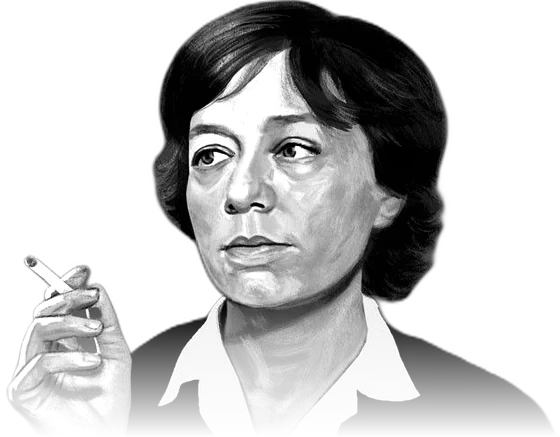
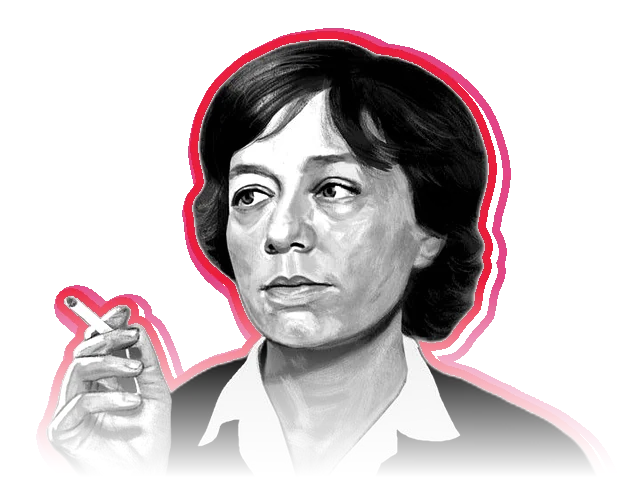
Ensaladas: cita escrita a mano alrededor del poeta, contorno rojo/rosa, poetas más chicos, ensalada y nombre grandes sin ficha
Claude-Session: https://claude.ai/code/session_014MYiZw9DCFwXijDfbvyeKp

diff --git a/index.html b/index.html
@@ -132,10 +132,9 @@
       <div class="ensaladas__escena" data-escena tabindex="0" aria-roledescription="carrusel" aria-label="Ensaladas: desliza para cambiar">
         <div class="es__giro" data-giro>
         <article class="es" data-vibra="pizarnik" aria-roledescription="ensalada" aria-label="Ensalada Pizarnik">
-          <div class="es__poeta" style="--ar: 560 / 437"><img src="assets/img/poetas/pizarnik.webp" width="560" height="437" alt="" loading="lazy"><svg class="es__grafiti" viewBox="0 0 560 437" aria-hidden="true"><g class="es__trazos"><path class="p" d="M222 26 L236 -38 L268 6 L300 -52 L332 6 L364 -38 L378 26 Z" pathLength="1"/><path class="r" d="M150 170 C 80 150, 30 190, 14 262 M14 262 l-8 -34 M14 262 l26 -22" pathLength="1"/><path class="p" d="M34 250 C 4 222, 58 204, 30 176 S 2 128, 42 96" pathLength="1"/><path class="r" d="M490 52 L495.4 64.6 L508 66.4 L498.1 74.5 L500.8 88 L490 79.9 L479.2 88 L481.9 74.5 L472 66.4 L484.6 64.6 Z" pathLength="1"/><path class="p" d="M112 28 L115.6 36.4 L124 37.6 L117.4 43.0 L119.2 52 L112 46.6 L104.8 52 L106.6 43.0 L100 37.6 L108.4 36.4 Z" pathLength="1"/><path class="r" d="M472 230 C446.4 214, 456 194.8, 472 207.6 C488 194.8, 497.6 214, 472 230 Z" pathLength="1"/></g><text class="p" x="316" y="404" transform="rotate(-12 316 404)">¡NOCHE!</text></svg></div>
+          <div class="es__poeta" style="--ar: 640 / 477"><img src="assets/img/poetas/pizarnik.webp" width="640" height="477" alt="" loading="lazy"><svg class="es__grafiti" viewBox="-40 -40 640 477" aria-hidden="true"><g class="es__trazos"><path class="r" d="M150 170 C 80 150, 30 190, 14 262 M14 262 l-8 -34 M14 262 l26 -22" pathLength="1"/><path class="r" d="M490 52 L495.4 64.6 L508 66.4 L498.1 74.5 L500.8 88 L490 79.9 L479.2 88 L481.9 74.5 L472 66.4 L484.6 64.6 Z" pathLength="1"/><path class="p" d="M112 28 L115.6 36.4 L124 37.6 L117.4 43.0 L119.2 52 L112 46.6 L104.8 52 L106.6 43.0 L100 37.6 L108.4 36.4 Z" pathLength="1"/><path class="r" d="M472 230 C446.4 214, 456 194.8, 472 207.6 C488 194.8, 497.6 214, 472 230 Z" pathLength="1"/></g><path id="arco-pizarnik" d="M90 330 C 40 -170, 560 -170, 510 330" fill="none"/><text class="es__escrito"><textPath href="#arco-pizarnik" startOffset="50%" text-anchor="middle">He dado el salto de mí al alba.</textPath></text></svg></div>
           <p class="es__nombre"><span>Alejandra</span> Pizarnik</p>
           <img class="es__plato" src="assets/img/ensaladas/pizarnik.webp" width="720" height="633" alt="Ensalada Pizarnik" loading="lazy">
-          <blockquote class="es__chip es__cita"><p>«He dado el salto de mí al alba.»</p><footer><cite>Árbol de Diana</cite></footer></blockquote>
           <p class="es__chip es__vibra">fruta oscura · deseo · silencio · noche</p>
           <a class="es__chip es__pedir" href="https://laymonpizzeria.getjusto.com/pedir">Pide la Pizarnik <span aria-hidden="true">→</span></a>
           <span class="es__ings" aria-hidden="true">
@@ -155,10 +154,9 @@
           </span>
         </article>
         <article class="es" data-vibra="blake" aria-roledescription="ensalada" aria-label="Ensalada Blake">
-          <div class="es__poeta" style="--ar: 560 / 453"><img src="assets/img/poetas/blake.webp" width="560" height="453" alt="" loading="lazy"><svg class="es__grafiti" viewBox="0 0 560 453" aria-hidden="true"><g class="es__trazos"><path class="p" d="M126 24 A132 28 -5 1 0 390 24 A132 28 -5 1 0 126 24" pathLength="1"/><path class="r" d="M168 210 C 110 220, 60 260, 34 318 M34 318 l-4 -34 M34 318 l28 -18" pathLength="1"/><path class="r" d="M110 -30 l-26 -18 M150 -58 l-10 -26 M370 -58 l10 -26 M410 -30 l26 -18" pathLength="1"/><path class="p" d="M440 84 L414 146 L444 146 L418 212" pathLength="1"/><path class="p" d="M96 136 L100.2 145.8 L110 147.2 L102.3 153.5 L104.4 164 L96 157.7 L87.6 164 L89.7 153.5 L82 147.2 L91.8 145.8 Z" pathLength="1"/><path class="r" d="M470 314 C447.6 300, 456 283.2, 470 294.4 C484 283.2, 492.4 300, 470 314 Z" pathLength="1"/></g><text class="r" x="300" y="376" transform="rotate(-10 300 376)">¡SANTO!</text></svg></div>
+          <div class="es__poeta" style="--ar: 640 / 493"><img src="assets/img/poetas/blake.webp" width="640" height="493" alt="" loading="lazy"><svg class="es__grafiti" viewBox="-40 -40 640 493" aria-hidden="true"><g class="es__trazos"><path class="r" d="M168 210 C 110 220, 60 260, 34 318 M34 318 l-4 -34 M34 318 l28 -18" pathLength="1"/><path class="p" d="M96 136 L100.2 145.8 L110 147.2 L102.3 153.5 L104.4 164 L96 157.7 L87.6 164 L89.7 153.5 L82 147.2 L91.8 145.8 Z" pathLength="1"/><path class="r" d="M470 314 C447.6 300, 456 283.2, 470 294.4 C484 283.2, 492.4 300, 470 314 Z" pathLength="1"/></g><path id="arco-blake" d="M60 300 C 20 -170, 500 -170, 460 300" fill="none"/><text class="es__escrito" lang="en"><textPath href="#arco-blake" startOffset="50%" text-anchor="middle">Every thing that lives is holy.</textPath></text></svg></div>
           <p class="es__nombre"><span>William</span> Blake</p>
           <img class="es__plato" src="assets/img/ensaladas/blake.webp" width="720" height="580" alt="Ensalada Blake" loading="lazy">
-          <blockquote class="es__chip es__cita"><p lang="en">«Every thing that lives is holy.»</p><footer><cite>El matrimonio del cielo y el infierno</cite></footer></blockquote>
           <p class="es__chip es__vibra">naturaleza viva · energía · abundancia</p>
           <a class="es__chip es__pedir" href="https://laymonpizzeria.getjusto.com/pedir">Pide la Blake <span aria-hidden="true">→</span></a>
           <span class="es__ings" aria-hidden="true">
@@ -178,10 +176,9 @@
           </span>
         </article>
         <article class="es" data-vibra="artaud" aria-roledescription="ensalada" aria-label="Ensalada Artaud">
-          <div class="es__poeta" style="--ar: 560 / 591"><img src="assets/img/poetas/artaud.webp" width="560" height="591" alt="" loading="lazy"><svg class="es__grafiti" viewBox="0 0 560 591" aria-hidden="true"><g class="es__trazos"><path class="p" d="M232 74 C 216 44, 220 8, 246 -14 C 250 16, 262 42, 282 60" pathLength="1"/><path class="p" d="M482 56 C 502 28, 508 -6, 494 -30 C 478 -4, 462 20, 446 40" pathLength="1"/><path class="r" d="M190 300 C 120 300, 60 340, 26 404 M26 404 l-2 -34 M26 404 l30 -16" pathLength="1"/><path class="p" d="M80 140 l40 40 M120 140 l-40 40" pathLength="1"/><path class="r" d="M530 306 L534.2 315.8 L544 317.2 L536.3 323.5 L538.4 334 L530 327.7 L521.6 334 L523.7 323.5 L516 317.2 L525.8 315.8 Z" pathLength="1"/><path class="p" d="M110 264 C87.6 250, 96 233.2, 110 244.4 C124 233.2, 132.4 250, 110 264 Z" pathLength="1"/></g><text class="r" x="250" y="572" transform="rotate(-9 250 572)">¡CRUDA!</text></svg></div>
+          <div class="es__poeta" style="--ar: 640 / 631"><img src="assets/img/poetas/artaud.webp" width="640" height="631" alt="" loading="lazy"><svg class="es__grafiti" viewBox="-40 -40 640 631" aria-hidden="true"><g class="es__trazos"><path class="r" d="M190 300 C 120 300, 60 340, 26 404 M26 404 l-2 -34 M26 404 l30 -16" pathLength="1"/><path class="p" d="M80 140 l40 40 M120 140 l-40 40" pathLength="1"/><path class="r" d="M530 306 L534.2 315.8 L544 317.2 L536.3 323.5 L538.4 334 L530 327.7 L521.6 334 L523.7 323.5 L516 317.2 L525.8 315.8 Z" pathLength="1"/><path class="p" d="M110 264 C87.6 250, 96 233.2, 110 244.4 C124 233.2, 132.4 250, 110 264 Z" pathLength="1"/></g><path id="arco-artaud" d="M120 420 C 60 -230, 640 -230, 580 420" fill="none"/><text class="es__escrito"><textPath href="#arco-artaud" startOffset="50%" text-anchor="middle">Acabar con las obras maestras.</textPath></text></svg></div>
           <p class="es__nombre"><span>Antonin</span> Artaud</p>
           <img class="es__plato" src="assets/img/ensaladas/artaud.webp" width="720" height="587" alt="Ensalada Artaud" loading="lazy">
-          <blockquote class="es__chip es__cita"><p>«Acabar con las obras maestras.»</p><footer><cite>El teatro y su doble</cite></footer></blockquote>
           <p class="es__chip es__vibra">cruda · raíz · cuerpo · verdad sin filtro</p>
           <a class="es__chip es__pedir" href="https://laymonpizzeria.getjusto.com/pedir">Pide la Artaud <span aria-hidden="true">→</span></a>
           <span class="es__ings" aria-hidden="true">

diff --git a/assets/css/main.css b/assets/css/main.css
@@ -443,7 +443,7 @@ a { color: inherit; }
   translate: -50% -50%; transform-style: preserve-3d; visibility: hidden;
 }
 .es[data-pos="0"] { visibility: visible; }
-.es__poeta { position: absolute; left: 64%; bottom: -14%; height: 140%; aspect-ratio: var(--ar); transform: translateZ(20px); transform-style: preserve-3d; }
+.es__poeta { position: absolute; left: 70%; bottom: -6%; height: 104%; aspect-ratio: var(--ar); transform: translateZ(20px); transform-style: preserve-3d; }
 .es__poeta img { display: block; width: 100%; height: 100%; }
 /* Grafiti de plumón en rojo y rosa Laymon encima del retrato (vandalismo de museo); se pinta al llegar */
 .es__grafiti { position: absolute; inset: 0; width: 100%; height: 100%; overflow: visible; filter: url(#aerosol); transform: translateZ(70px); }
@@ -452,36 +452,29 @@ a { color: inherit; }
 .es__trazos > * { stroke-dasharray: 1; }
 .es__trazos .r { stroke: var(--red); }
 .es__trazos .p { stroke: var(--rosa); }
-.es__grafiti text { font: 400 92px/1 var(--font-display); }
-.es__grafiti text.r { fill: var(--red); }
-.es__grafiti text.p { fill: var(--rosa); }
+.es__escrito { fill: var(--rosa); font: 400 54px/1 var(--font-display); }
 .es[data-pos="0"] .es__trazos > * { animation: es-pinta .7s cubic-bezier(.5, 0, .3, 1) .5s backwards; }
 .es[data-pos="0"] .es__trazos > :nth-child(2) { animation-delay: .75s; }
 .es[data-pos="0"] .es__trazos > :nth-child(3) { animation-delay: 1s; }
 .es[data-pos="0"] .es__trazos > :nth-child(n+4) { animation-delay: 1.2s; }
-.es[data-pos="0"] .es__grafiti text { animation: es-aparece .35s steps(3) 1.3s backwards; }
+.es[data-pos="0"] .es__escrito { animation: es-aparece .5s steps(4) 1.3s backwards; }
 @keyframes es-pinta { from { stroke-dashoffset: 1; } }
 @keyframes es-aparece { from { opacity: 0; } }
 .es__plato {
-  position: absolute; left: 42%; top: 48%; width: 82%; height: auto; translate: -50% -50%;
+  position: absolute; left: 42%; top: 54%; width: 100%; height: auto; translate: -50% -50%;
   transform: translateZ(70px); filter: drop-shadow(0 26px 24px rgba(12, 11, 11, .5));
 }
 /* El nombre es una ficha más: calcomanía montada sobre la esquina de la carta */
 .es__nombre {
-  position: absolute; left: -7%; top: -12%; margin: 0; padding: 10px 18px 12px; border-radius: 14px; rotate: -4deg;
-  background: var(--red); color: var(--paper); font: 400 clamp(40px, 4vw, 60px)/.92 var(--font-display); white-space: nowrap;
-  box-shadow: 0 14px 30px rgba(12, 11, 11, .35); transform: translateZ(110px);
+  position: absolute; left: -16%; top: -26%; margin: 0; color: var(--red); white-space: nowrap;
+  font: 400 clamp(96px, 10vw, 156px)/.85 var(--font-display); transform: translateZ(100px); filter: drop-shadow(0 6px 0 var(--paper));
 }
-.es__nombre span { display: block; font-size: .5em; }
+.es__nombre span { display: block; margin-left: .1em; color: var(--ink); font-size: .32em; }
 .es__chip, .es__ing { position: absolute; }
 .es__chip {
   margin: 0; padding: 10px 14px; border-radius: 16px; background: #fff; color: var(--ink);
   font-size: 15px; line-height: 1.35; box-shadow: 0 12px 28px rgba(12, 11, 11, .25); transform: translateZ(150px);
 }
-.es__cita { right: 82%; top: 66%; width: clamp(190px, 16vw, 250px); }
-.es__cita p { margin: 0; font-size: 18px; }
-.es__cita footer { margin-top: 6px; font-size: 12px; color: var(--label); }
-.es__cita cite { font-style: normal; }
 .es__vibra { right: 88%; top: 26%; width: clamp(170px, 14vw, 210px); transform: translateZ(150px); }
 .es__vibra::before { content: ""; display: inline-block; width: 9px; height: 9px; margin-right: 7px; border-radius: 50%; background: var(--red); }
 .es__pedir { left: 46%; top: 94%; white-space: nowrap; background: var(--red); color: #fff; text-decoration: none; font-size: 18px; border-radius: 999px; padding: 13px 24px; transform: translateZ(160px); }
@@ -518,21 +511,17 @@ a { color: inherit; }
 .ensaladas__puntos button:focus-visible { outline: 3px solid currentColor; outline-offset: 3px; }
 @media (min-width: 821px) and (max-width: 1100px) {
   .es { width: 440px; }
-  .es__poeta { left: 58%; bottom: -6%; height: 118%; }
-  .es__cita { right: 78%; width: 180px; }
-  .es__cita p { font-size: 16px; }
+  .es__poeta { left: 64%; bottom: -4%; height: 92%; }
   .es__vibra { right: 84%; width: 160px; }
 }
 /* Celular: carta vertical */
 @media (max-width: 820px) {
   .ensaladas__escena { height: 700px; }
   .es { width: 240px; aspect-ratio: 2 / 3; margin-top: 50px; }
-  .es__poeta { left: 50%; bottom: auto; top: -46%; width: 116%; height: auto; translate: -50% 0; }
+  .es__poeta { left: 50%; bottom: auto; top: -52%; width: 112%; height: auto; translate: -50% 0; }
   .es__plato { left: 50%; top: 58%; width: 138%; }
-  .es__nombre { left: -14%; top: 4%; font-size: 38px; padding: 8px 14px 10px; }
+  .es__nombre { left: -14%; top: 8%; font-size: 64px; }
   .es__chip { font-size: 13px; padding: 8px 11px; }
-  .es__cita { left: 62%; top: 80%; right: auto; width: 132px; }
-  .es__cita p { font-size: 15px; }
   .es__vibra { right: 56%; top: 84%; width: 146px; }
   .es__pedir { left: 50%; top: 110%; translate: -50% 0; font-size: 16px; }
   .es__ing { --t: calc(var(--s) * .9); }
